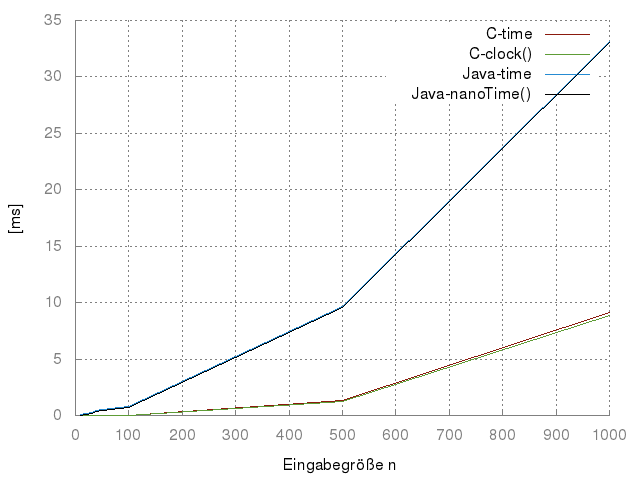
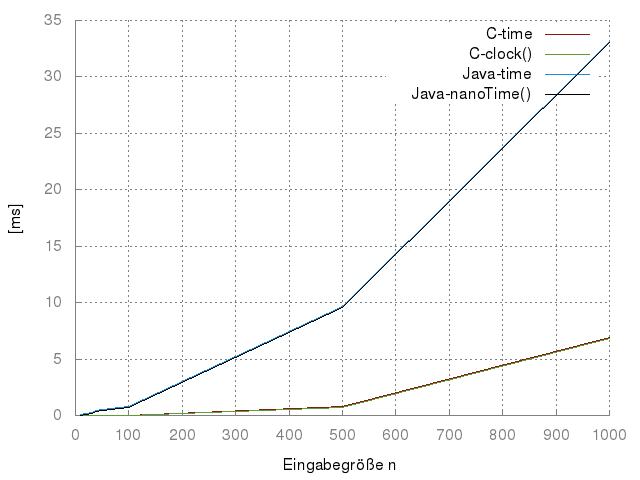
C-Messungen verbessert

Changed region(s): [[0.25, 0.7188, 0.8125, 0.875], [0.8125, 0.6875, 0.9062, 0.75], [0.875, 0.6562, 0.9375, 0.7188]]

diff --git a/Serie 3/multiply.c b/Serie 3/multiply.c
@@ -67,16 +67,12 @@ int main() {
 
   clock_t t = clock();
 
-  mult(C, A, B);
-  printf("========== A ============\n");
-  print(A);
-  printf("========== B ============\n");
-  print(B);
-  printf("========== C ============\n");
-  print(C);
+  int i;
+  for (i = 0; i < 10000; ++i)
+      mult(C, A, B);
 
   t = clock() - t;
 
   printf("=========================\n");
-  printf("%d Clicks bzw. %fs für Multiplikationen benötigt!\n", (int)t, ((float)t/CLOCKS_PER_SEC));
+  printf("%d Clicks für 10000 Multiplikationen -- %fs für eine benötigt!\n", (int)t, ((float)t/CLOCKS_PER_SEC)/10000);
 }
